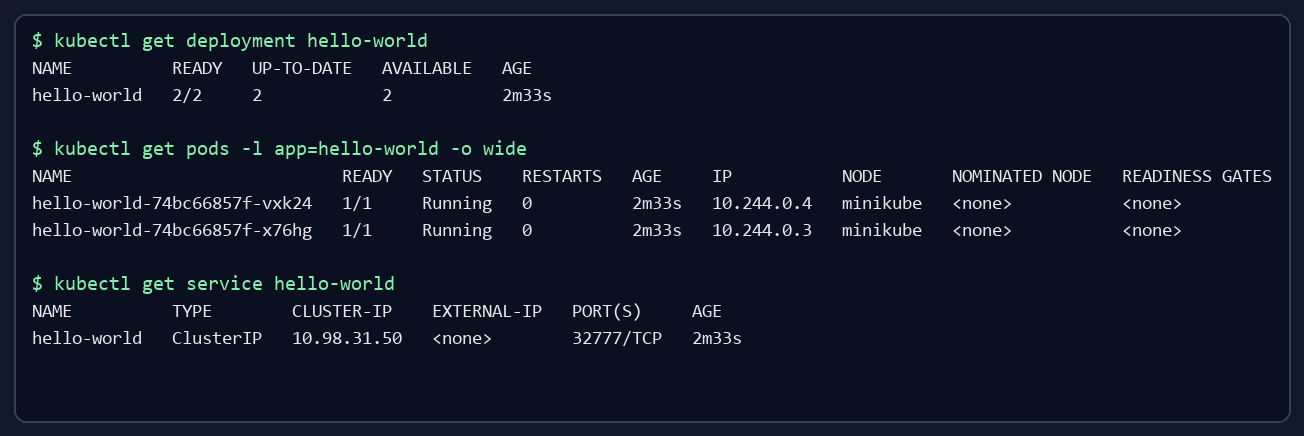
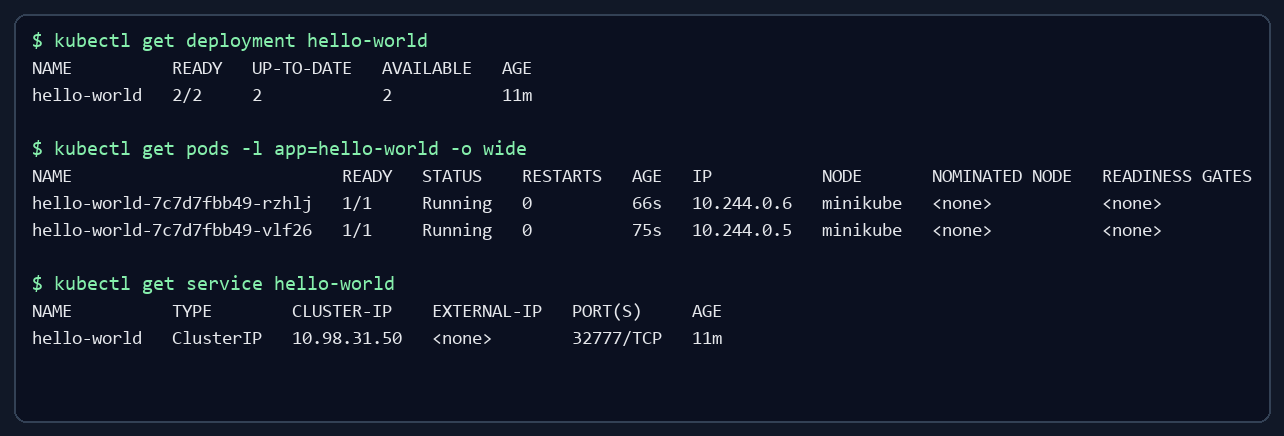
Publish image and document deployment results

diff --git a/README.md b/README.md
@@ -2,6 +2,9 @@
 
 Тестовое задание: HTTP-приложение на порту `32777`, контейнер Docker и развёртывание в Minikube с двумя репликами.
 
+- GitHub: <https://github.com/aoswhiskey/hello-world-devops>
+- Docker Hub: <https://hub.docker.com/r/aoswhiskey/hello-world-devops>
+
 ## Что входит в проект
 
 - `app.py` — HTTP API без сторонних зависимостей;
@@ -23,21 +26,16 @@ python app.py
 ## Docker
 
 ```powershell
-docker build -t hello-world-devops:1.0.0 .
-docker run --rm -p 32777:32777 hello-world-devops:1.0.0
+docker pull aoswhiskey/hello-world-devops:1.0.0
+docker run --rm -p 32777:32777 aoswhiskey/hello-world-devops:1.0.0
 ```
 
-Для публикации заменить `DOCKERHUB_USERNAME` на имя пользователя Docker Hub:
+Сборка и публикация новой версии:
 
 ```powershell
-docker login
-docker tag hello-world-devops:1.0.0 DOCKERHUB_USERNAME/hello-world-devops:1.0.0
-docker tag hello-world-devops:1.0.0 DOCKERHUB_USERNAME/hello-world-devops:latest
-docker push DOCKERHUB_USERNAME/hello-world-devops:1.0.0
-docker push DOCKERHUB_USERNAME/hello-world-devops:latest
+docker build -t aoswhiskey/hello-world-devops:1.0.0 .
+docker push aoswhiskey/hello-world-devops:1.0.0
 ```
-
-После публикации можно заменить поле `image` в `k8s/deployment.yaml` на `DOCKERHUB_USERNAME/hello-world-devops:1.0.0`.
 
 ## Minikube
 
@@ -45,8 +43,6 @@ docker push DOCKERHUB_USERNAME/hello-world-devops:latest
 
 ```powershell
 minikube start --driver=docker
-docker build -t hello-world-devops:1.0.0 .
-minikube image load hello-world-devops:1.0.0
 kubectl apply -f k8s/deployment.yaml
 kubectl apply -f k8s/service.yaml
 kubectl rollout status deployment/hello-world --timeout=120s
